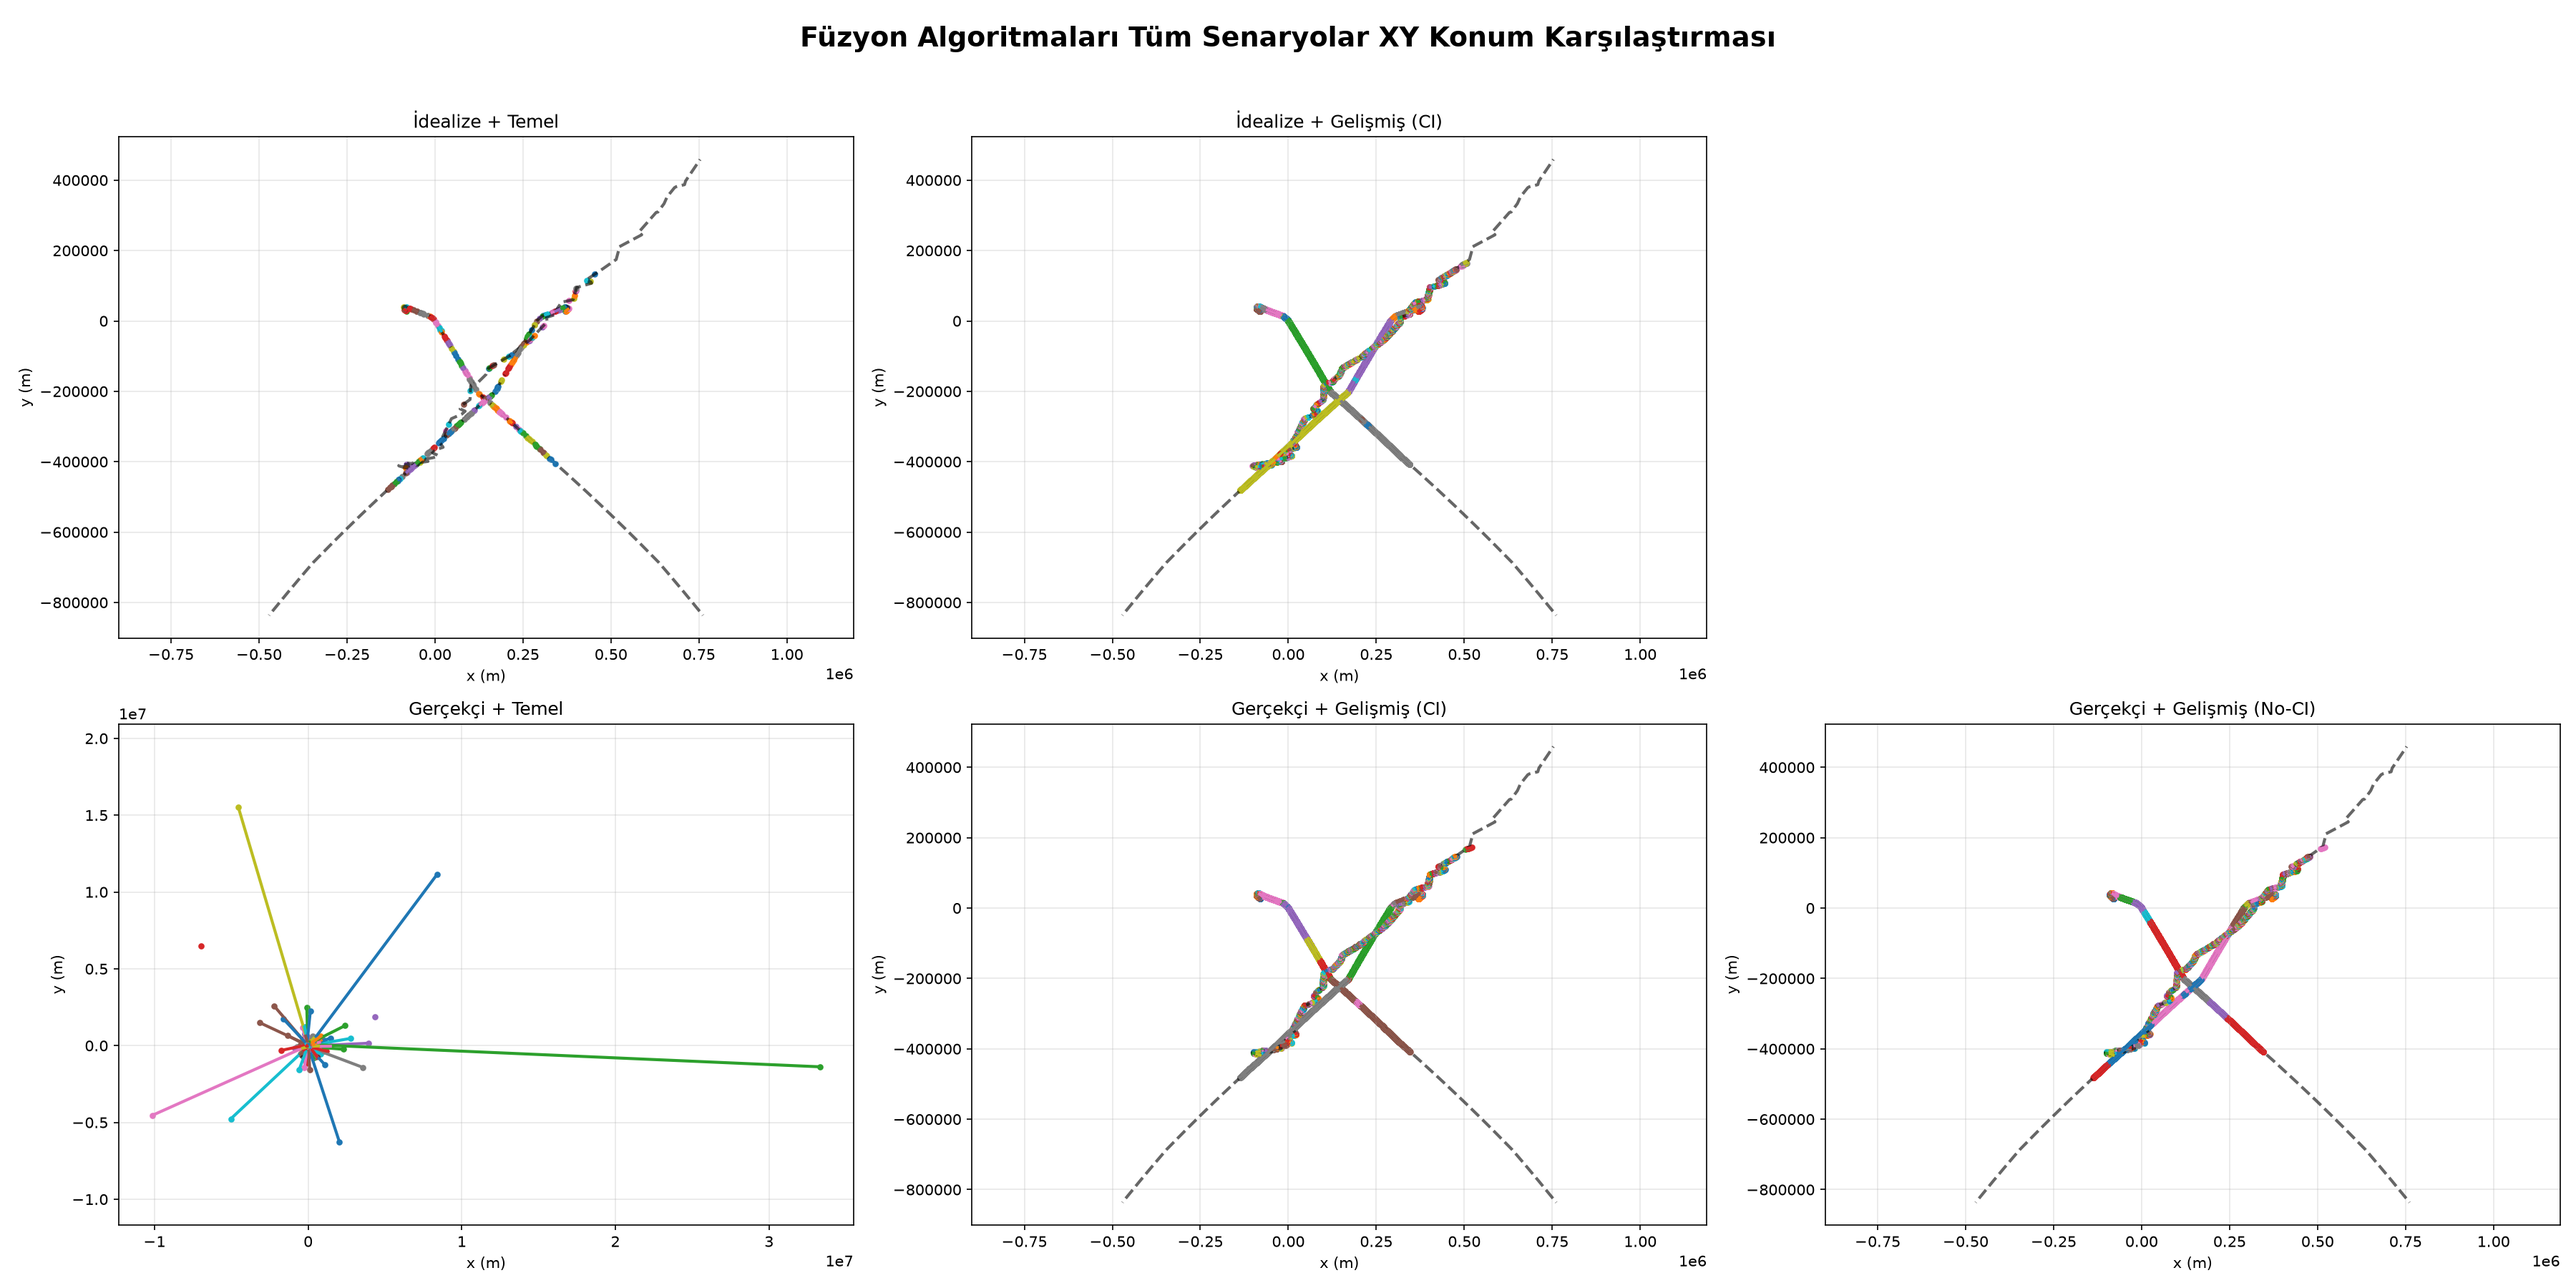
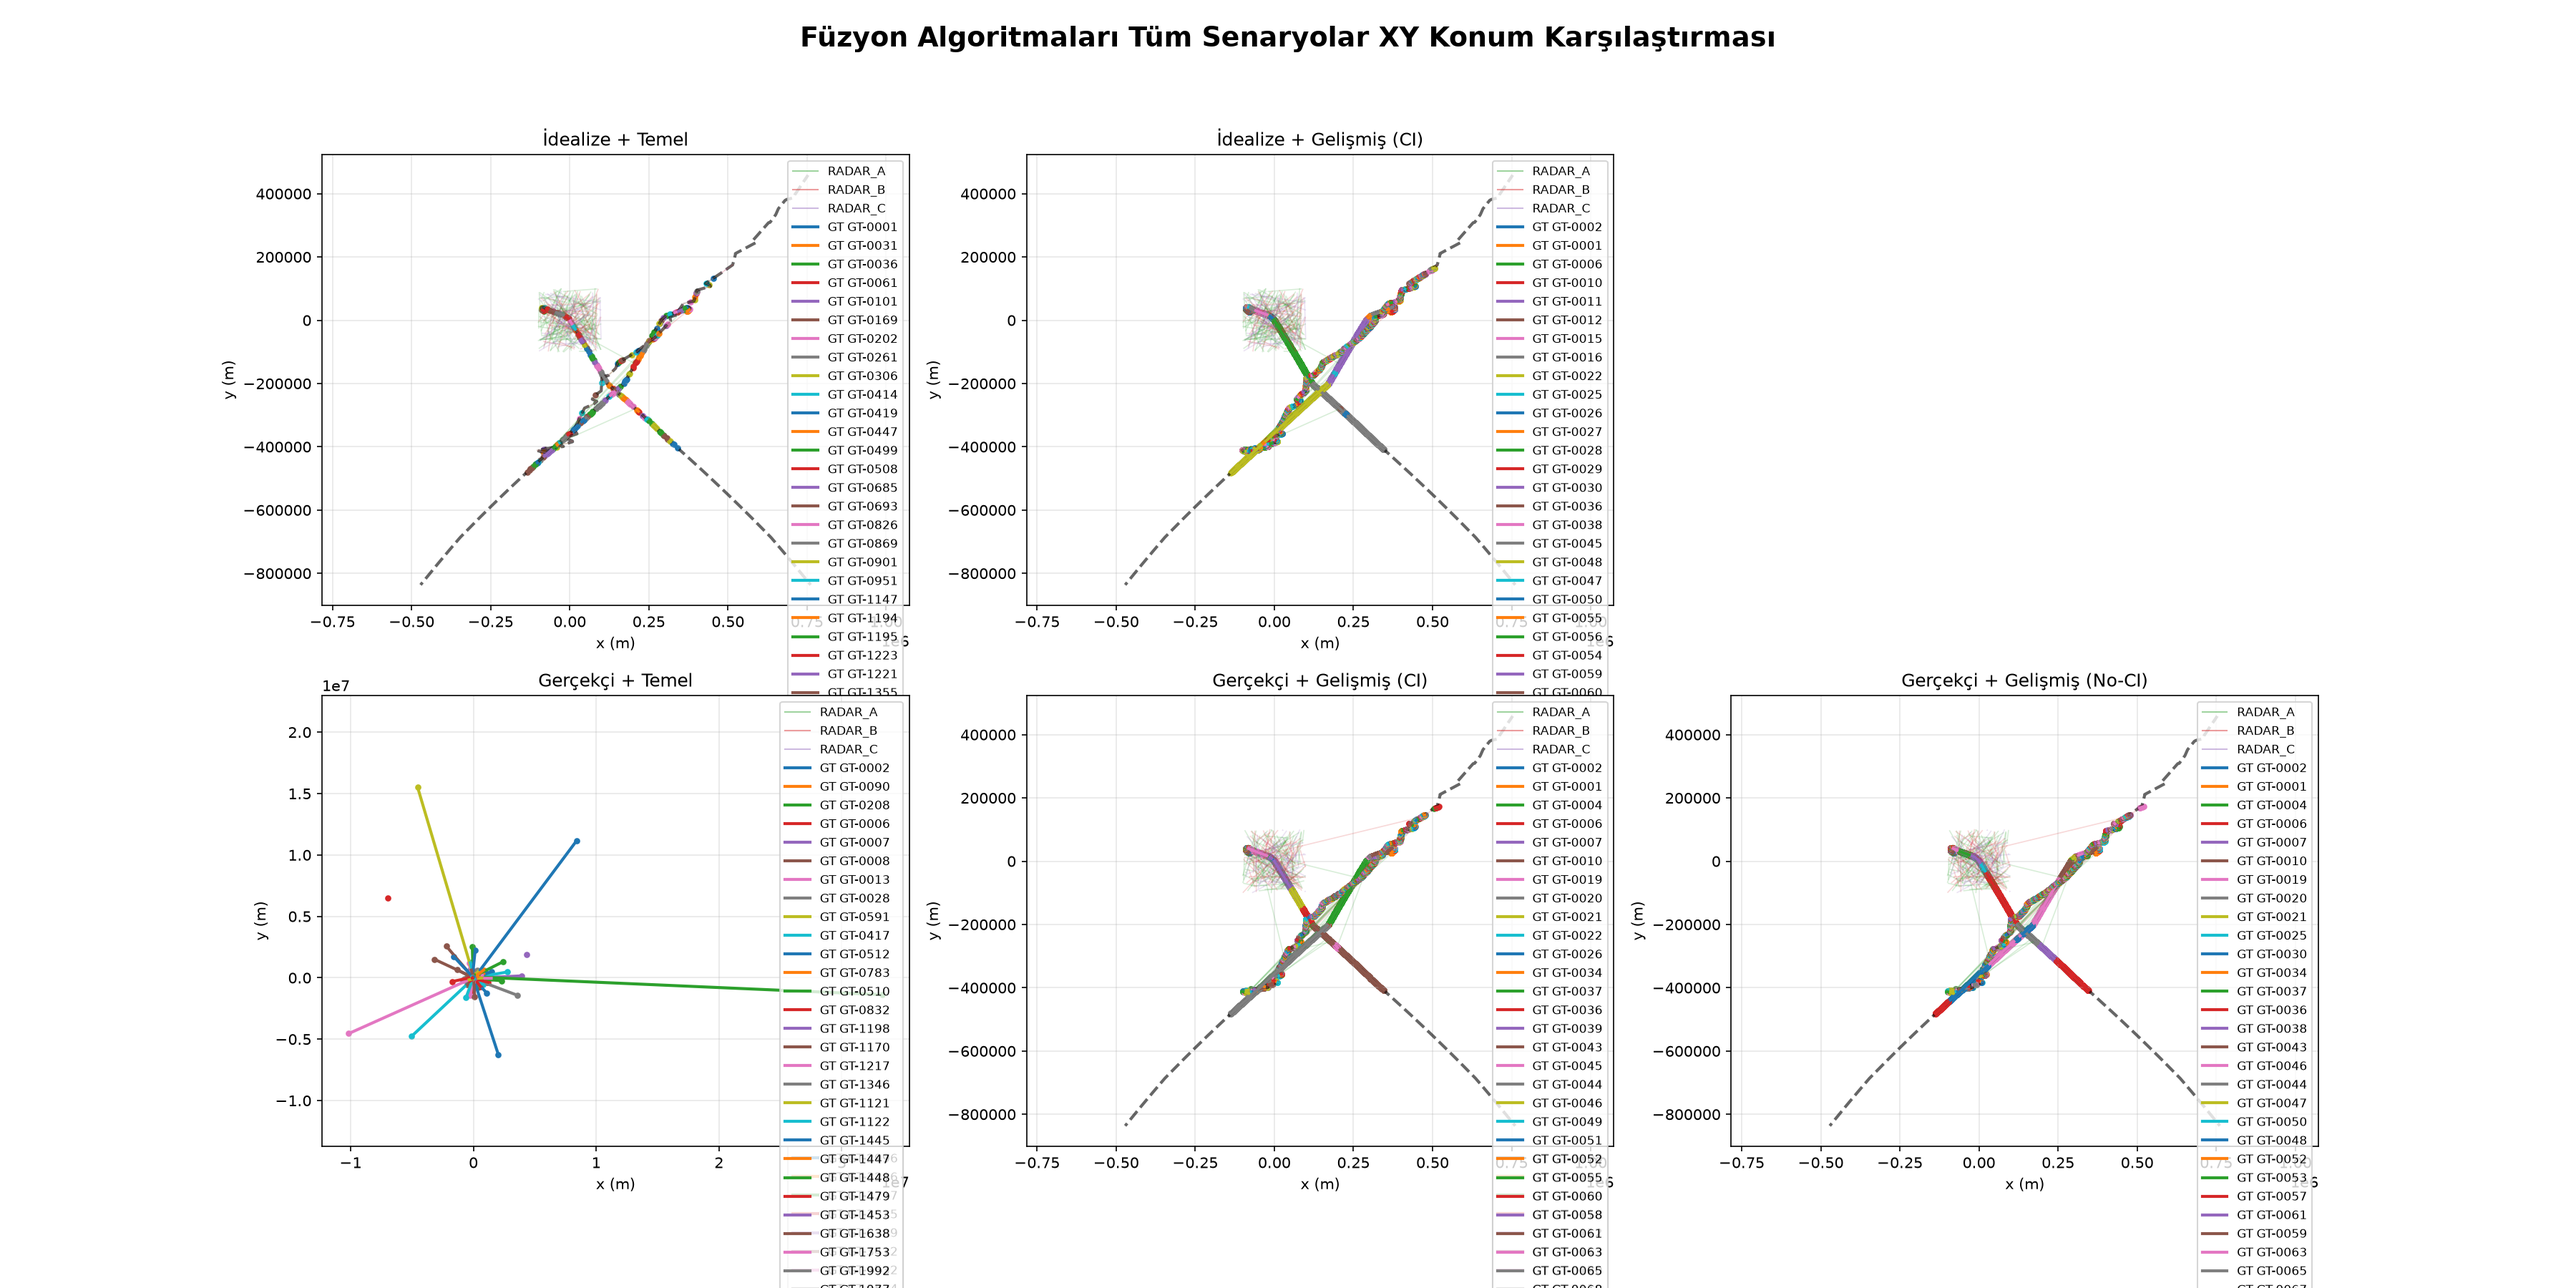
add radar measurements to graphs

diff --git a/main.py b/main.py
@@ -94,17 +94,37 @@ def main():
             sub = gt_df[gt_df.get('callsign', gt_df.get('target')) == cs].sort_values('time')
             ax.plot(sub['x'], sub['y'], 'k--', linewidth=2, alpha=0.6)
 
+        # Ham sensör track'leri (radar bazında, ince çizgiyle)
+        sensor_csv = IDEALIZE_SENSOR_CSV if 'İdealize' in name else GERCEKCI_SENSOR_CSV
+        try:
+            sensor_df = pd.read_csv(sensor_csv)
+        except Exception:
+            sensor_df = pd.DataFrame()
+
+        if not sensor_df.empty and 'sensor' in sensor_df.columns and 'local_track_id' in sensor_df.columns:
+            for i, (sensor_name, group) in enumerate(sensor_df.groupby('sensor')):
+                color = f"C{(i + 2) % 10}"
+                first = True
+                for lt, g in group.groupby('local_track_id'):
+                    g = g.sort_values('time')
+                    if first:
+                        ax.plot(g['x'], g['y'], linewidth=1.0, alpha=0.45, color=color, label=sensor_name)
+                        first = False
+                    else:
+                        ax.plot(g['x'], g['y'], linewidth=0.8, alpha=0.18, color=color)
+
         # Füzyon sonuçları çizimi
         if not df.empty and 'global_track_id' in df.columns:
             for tid in df['global_track_id'].unique():
                 tdf = df[df['global_track_id'] == tid].sort_values('time')
-                ax.plot(tdf['x'], tdf['y'], linewidth=2, label=f"{tid}")
+                ax.plot(tdf['x'], tdf['y'], linewidth=2, label=f"GT {tid}")
                 ax.scatter(tdf['x'], tdf['y'], s=10)
 
         ax.set_xlabel('x (m)')
         ax.set_ylabel('y (m)')
         ax.grid(True, alpha=0.3)
         ax.set_aspect('equal', adjustable='datalim')
+        ax.legend(fontsize='small', loc='upper right')
 
     plt.tight_layout(rect=[0, 0, 1, 0.96])
     plt.savefig('tum_senaryolar_xy.png', dpi=150)
